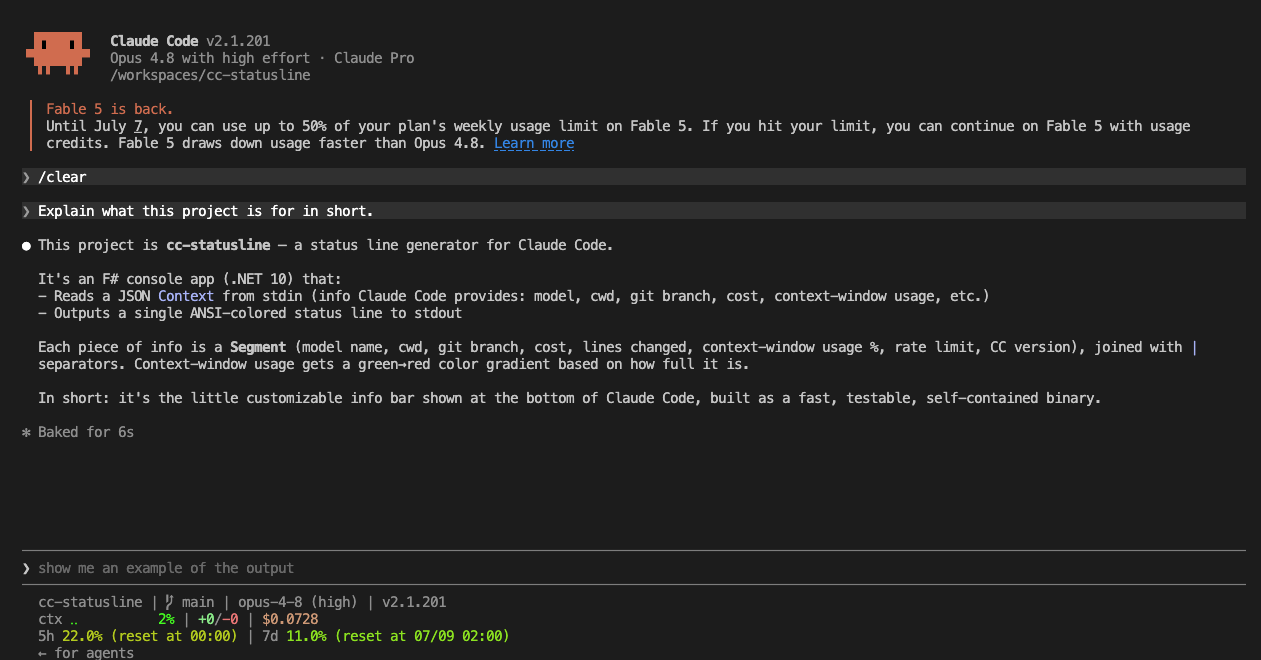
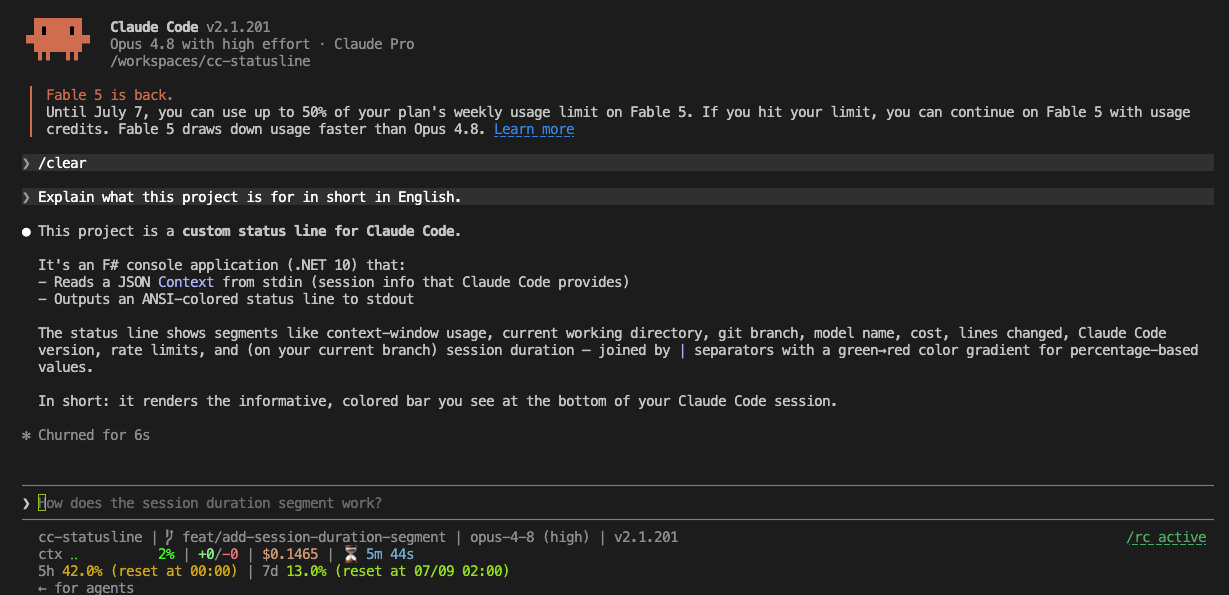
feat: セッション経過時間を表示するセグメントを追加する (#82)
* feat: セッション経過時間を表示するセグメントを追加する

cost.total_duration_ms を `⏳ 1h 12m 3s` 形式で表示する SessionDuration
セグメントを追加する。上位のゼロ単位は省略し、下位はゼロでも残す。
日単位は作らず時間は青天井、ゼロ埋めはしない。

コンテキスト行（2 行目）末尾の Cost の後ろに配置する。

Claude-Session: https://claude.ai/code/session_01U2q3gYUbLMjpNRD2g4dEYB

* docs: Update example image to a new version

* refactor: 経過時間の整形責務をセグメント側へ移す

DateTime は ミリ秒を時分秒へ分解する msToDuration / Duration 型に留め、
`1h 12m 3s` 形式への整形（上位ゼロ単位の省略ルール）は表示上の判断として
SessionDuration セグメント側に移す。テストも責務に合わせて分割する。

Claude-Session: https://claude.ai/code/session_01U2q3gYUbLMjpNRD2g4dEYB

---------

diff --git a/README.md b/README.md
@@ -71,6 +71,7 @@ curl -fsSL https://raw.githubusercontent.com/Lightning7329/cc-statusline/main/in
 | Context window    | Braille progress bar with usage percentage                           |
 | Lines changed     | Lines added / removed this session (`+156/-23`, green / red)         |
 | Cost              | Session cost in USD                                                  |
+| Session duration  | Elapsed wall-clock time this session (`⏳ 1h 12m 3s`)                |
 | Rate limit        | Remaining requests for context, 5-hour, and 7-day windows            |
 
 ## Requirements